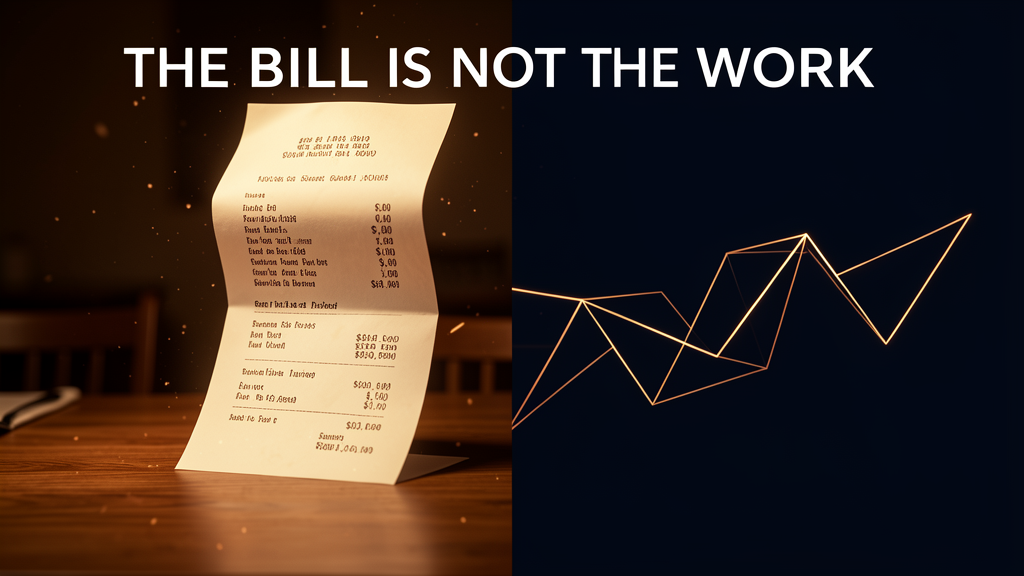
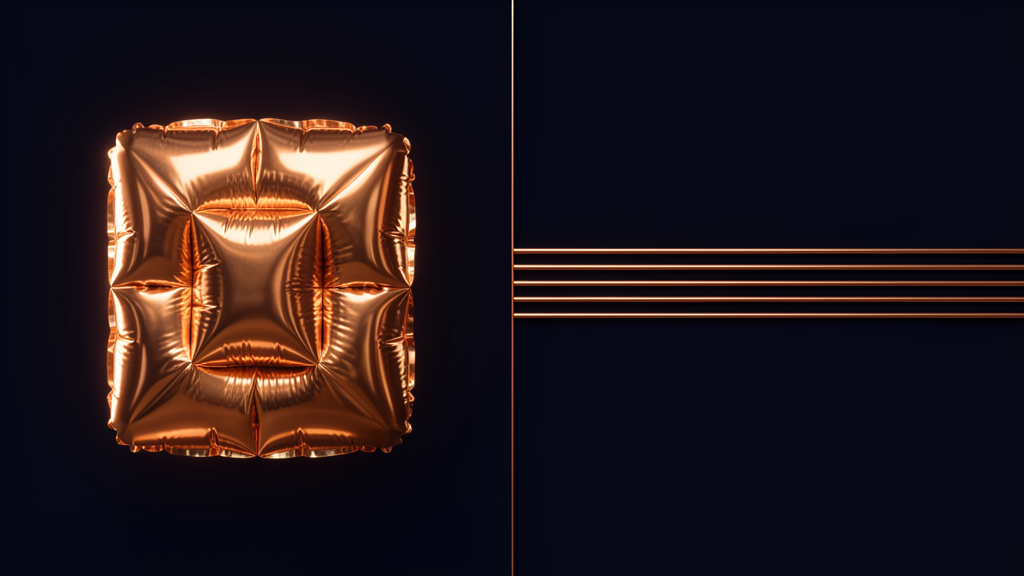
fix: blog-writing skill compliance — dateline + abstract hero
- Added World Cup dateline (Category 2: time-sensitive post)
- Regenerated hero image: fully abstract geometric, no text/objects
- Alt text updated to match new image

diff --git a/articles/bill-is-not-work.md b/articles/bill-is-not-work.md
@@ -8,7 +8,9 @@ image: /assets/images/bill-is-not-work-hero.png
 reading_time: 8
 ---
 
-![The Bill Is Not the Work — a receipt inflated against a simple path of actual labor](/assets/images/bill-is-not-work-hero.png)
+![The Bill Is Not the Work — an inflated form on the left, honest parallel lines on the right](/assets/images/bill-is-not-work-hero.png)
+
+*Published June 27, 2026, during the 2026 FIFA World Cup in the United States. The tipping culture clash described here is unfolding in real time across 11 host cities. The structural argument — that the percentage model compensates the menu, not the labor — will remain valid long after the tournament ends.*
 
 # The Bill Is Not the Work
 